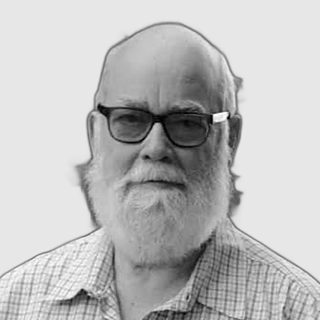
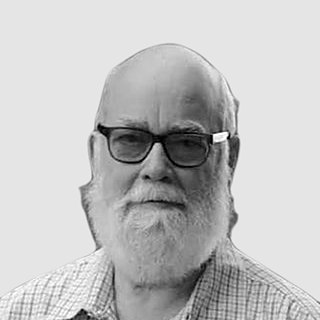
Foto del Dr. Sixto Incháustegui: recorte corregido
Claude-Session: https://claude.ai/code/session_01BHMmWDpctDYv86qzNVNWJD

Changed region(s): [[0.0, 0.0625, 1.0, 1.0], [0.0, 0.8438, 0.0312, 0.875]]

diff --git a/index.html b/index.html
@@ -845,7 +845,7 @@ main .grid3 .card p,main .area p{text-align:left;-webkit-hyphens:manual;hyphens:
           <span class="num">EJE 02</span>
           <h4>Ciencias Ambientales, Agroalimentarias y de la Tierra</h4>
           <div class="coord">
-            <img class="avatar sm" src="foto-sixto-inchaustegui.jpg" alt="Dr. Sixto Incháustegui Miranda" width="320" height="320" loading="lazy">
+            <img class="avatar sm" src="foto-sixto-inchaustegui.jpg?v=2" alt="Dr. Sixto Incháustegui Miranda" width="320" height="320" loading="lazy">
             <div><span class="rol">Coordinador</span><b>Dr. Sixto Incháustegui Miranda</b></div>
           </div>
           <div class="miembros">
